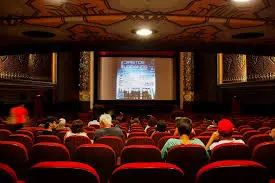
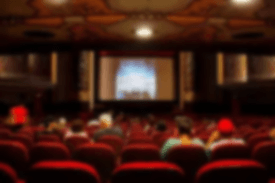
replacement of the 'movie-theater' image

diff --git a/client/src/pages/ResetPassword/style.scss b/client/src/pages/ResetPassword/style.scss
@@ -25,8 +25,6 @@
     flex-direction: column;
     
     .resetpassword_left-backimage {
-      -webkit-filter: brightness(80%) blur(.3rem);
-              filter: brightness(80%) blur(.3rem);
       pointer-events: none;
       height: 100%;
       width: 100%;

diff --git a/client/src/pages/SignUp/style.scss b/client/src/pages/SignUp/style.scss
@@ -25,8 +25,6 @@
     flex-direction: column;
     
     .signup_left-backimage {
-      -webkit-filter: brightness(80%) blur(.3rem);
-              filter: brightness(80%) blur(.3rem);
       pointer-events: none;
       height: 100%;
       width: 100%;

diff --git a/client/src/pages/Recovery/style.scss b/client/src/pages/Recovery/style.scss
@@ -25,8 +25,6 @@
     flex-direction: column;
 	
     .recovery_left-backimage {
-      -webkit-filter: brightness(80%) blur(.3rem);
-              filter: brightness(80%) blur(.3rem);
       pointer-events: none;
       height: 100%;
       width: 100%;

diff --git a/client/src/pages/SignIn/style.scss b/client/src/pages/SignIn/style.scss
@@ -25,8 +25,6 @@
     flex-direction: column;
 	
     .signin_left-backimage {
-      -webkit-filter: brightness(80%) blur(.3rem);
-              filter: brightness(80%) blur(.3rem);
       pointer-events: none;
       height: 100%;
       width: 100%;
